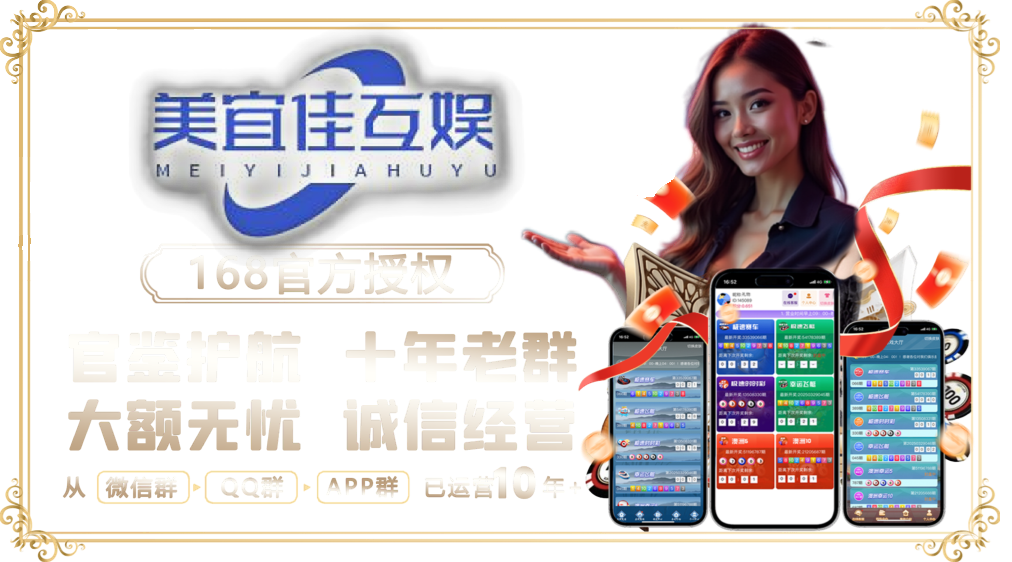
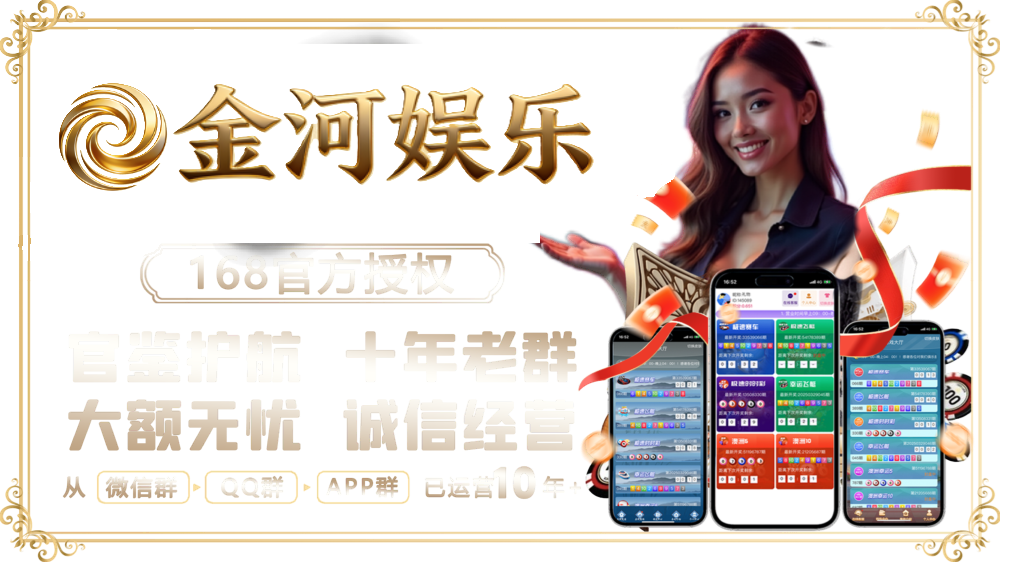
Add files via upload

Changed region(s): [[0.0613, 0.0605, 0.6126, 0.4537], [0.5208, 0.3932, 0.5514, 0.4537]]

diff --git a/index.html b/index.html
@@ -8,7 +8,7 @@
     <link rel="stylesheet" href="./skin/style_icon.css">
     <link rel="stylesheet" href="./skin/index.css">
     <script src="./skin/nutui.umd.4.3.8.js"></script>
-    <title>美宜佳互娱</title>
+    <title>金河娱乐</title>
     <meta name="keywords" content="">
     <meta name="description" content="">
     <link rel="icon" href="./skin/0544aa35b27947c89122b31183d19d04.png" type="image/png">
@@ -75,7 +75,7 @@
     <div id="app" class="page" data-v-app="">
         <div class="page-cont">
 
-            <img src="./images/img4.gif" class="responsive-img">
+            <img src="./images/img6.png" class="responsive-img">
             <img src="./skin/lb.png" class="responsive-img">
 
             <div class="cont-box" style="margin-top: -18px;">
@@ -85,7 +85,7 @@
                     <div class="msg-bar">
                         <div class="marquee-container">
                             <div class="marquee">
-                                欢迎来到美宜佳互娱，本平台已上押至官方，请各位老板放心娱乐，在本平台如发生不下分，卡回款，请及时联系本网页在线客服，会及时处理！
+                                欢迎来到金河娱乐，本平台已上押至官方，请各位老板放心娱乐，在本平台如发生不下分，卡回款，请及时联系本网页在线客服，会及时处理！
                             </div>
                         </div>
                     </div>
@@ -118,11 +118,11 @@
                                 <div class="top-info">
                                     <div class="info">
                                         <div class="name">
-                                            美宜佳娱乐
+                                            金河娱乐
                                         </div>
                                         <div class="link">
                                         <div class="name">
-                                            名爵:914411
+                                            名爵:211526
                                         </div>
                                             <a href="javascript:;">
                           
@@ -187,7 +187,7 @@
                                 <div class="close" id="guanbi19"></div>
                                 <div class="title"></div>
                                 <div class="line"></div>
-                                <div class="btn-list"><a class="btn" href="tzmjxz.html"><img src="./images/icon10.png" alt=""><span>  名爵 APP安卓官方下载</span></a><a class="btn" href="https://bv02.cc/mjpg1xz.html"><img src="./images/icon9.png" alt=""><span>  名爵 APP苹果官方直装</span></a><a class="btn" href="https://www.mjweb70.xyz/"><img src="./images/icon10.png" alt=""><span>  名爵H5登录</span></a>
+                                <div class="btn-list"><a class="btn" href="tzmjxz.html"><img src="./images/icon10.png" alt=""><span>  名爵 APP安卓官方下载</span></a><a class="btn" href="https://bv02.cc/mjpg1xz.html"><img src="./images/icon9.png" alt=""><span>  名爵 APP苹果官方直装</span></a><a class="btn" href="https://www.mjweb203.xyz/"><img src="./images/icon10.png" alt=""><span>  名爵H5登录</span></a>
                                     <a class="btn" id="apppg19"><img src="./images/icon11.png" alt=""><span>  名爵苹果教程</span></a><a class="btn" id="anzhuo19"><img src="./images/icon11.png" alt=""><span>  名爵安卓教程</span></a></div>
                             </div>
                         </view>

diff --git a/fl.html b/fl.html
@@ -8,7 +8,7 @@
     <link rel="stylesheet" href="../skin/style_icon.css">
     <link rel="stylesheet" href="../skin/index.css">
     <script src="../skin/nutui.umd.4.3.8.js"></script>
-    <title>美宜佳互娱福利</title>
+    <title>金河福利</title>
     <meta name="keywords" content="">
     <meta name="description" content="">
     <link rel="icon" href="./skin/0544aa35b27947c89122b31183d19d04.png" type="image/png">
